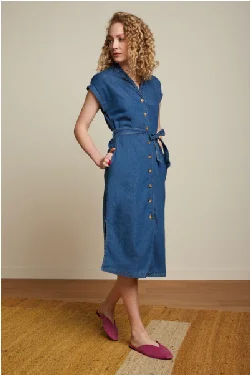
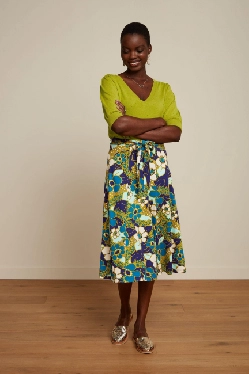
agregue texto en la seccion quienes somos, cambie imaganes en tienda y puse mas error404

diff --git a/pages/quienessomos.html b/pages/quienessomos.html
@@ -21,7 +21,7 @@
         <nav class="navbar navbar-expand-md .bg-success botonera">
             <div class="container-fluid">
                 <a href="../index.html">
-                    <img src="../img/logos/logo-ap.svg" class="logo-size" alt="logo de alma pura">
+                    <img src="../img/logos/logo-ap.svg" class="logo-size" alt="logo de alma pura marron">
                 </a>
                 <button class="navbar-toggler" type="button" data-bs-toggle="collapse"
                     data-bs-target="#navbarSupportedContent" aria-controls="navbarSupportedContent"
@@ -53,7 +53,7 @@
                             <a class="nav-link" href="./contacto.html">Contacto</a>
                         </li>
                         <li class="icon-color">
-                            <a href="#">
+                            <a href="./error404.html">
                                 <img src="../img/icon/icono-ap-carrito.svg" href="#" class="img-icon"
                                     alt="icono de carrito de compra">
                             </a>
@@ -86,26 +86,26 @@
                     </a> 
                 </div>
                 <div class="quien-img">
-                    <img src="../img/backg/backg-ap-quien.webp" alt="imágen provisoria luego se cambiará">
+                    <img src="../img/backg/backg-ap-quien.webp" alt="imágen de mujeres costureras y emprendedoras en el entorno textil">
                 </div>
             </section>
             <section class="quienes2 col-sm-12 col-md-12 col-lg-4">
                 <h2 class="text-center">Nuestro Equipo</h2>
                 <div class="quien-equipo">
                     <figure class="qui1">
-                        <img src="../img/backg/backg-quienes1.webp" alt="imágen provisoria luego se cambiará">
+                        <img src="../img/backg/backg-quienes1.webp" alt="foto perfil de lara mujer joven y sonriente">
                         <figcaption>Lara González</figcaption>
-                        <p>Lorem ipsum dolor sit, amet consectetur adipisicing elit. Perferendis consequatur odit nemo neque. Neque, aliquam voluptatibus. Eveniet distinctio maxime dicta minus sapiente autem. Tempore alias, eligendi doloribus odit dicta accusantium?</p>
+                        <p>Creadora & Fundadora. Fundó Alma Pura en 2011 debido a su preocupación por el impacto de la industria textil en el medio ambiente. Desde su creación, se ha esforzado por difundir el mensaje de que “otro modo de moda es posible”, promoviendo la ética en la moda, ecológica y sostenible.</p>
                     </figure>
                     <figure class="qui2">
-                        <img src="../img/backg/backg-quienes2.webp" alt="imágen provisoria luego se cambiará">
+                        <img src="../img/backg/backg-quienes2.webp" alt="foto perfil de juan  hombre joven y sonriente">
                         <figcaption>Juan Perez</figcaption>
-                        <p>Lorem ipsum dolor sit, amet consectetur adipisicing elit. Perferendis consequatur odit nemo neque. Neque, aliquam voluptatibus. Eveniet distinctio maxime dicta minus sapiente autem. Tempore alias, eligendi doloribus odit dicta accusantium?</p>
+                        <p>Marketing & Administración. Desde su adolescencia se implicó activamente con el cuidado del medio ambiente. A través de su ojo crítico y organizado, Juan representa una persona para llevar a cabo cada producto e idea de Alma Pura, priorizando un entorno ecológico, sostenible y justo.</p>
                     </figure>
                     <figure class="qui3">
-                        <img src="../img/backg/backg-quienes3.webp" alt="imágen provisoria luego se cambiará">
+                        <img src="../img/backg/backg-quienes3.webp" alt="foto perfil de nina  hombre joven y sonriente">
                         <figcaption>Nina Latskhom</figcaption>
-                        <p>Lorem ipsum dolor sit, amet consectetur adipisicing elit. Perferendis consequatur odit nemo neque. Neque, aliquam voluptatibus. Eveniet distinctio maxime dicta minus sapiente autem. Tempore alias, eligendi doloribus odit dicta accusantium?</p>
+                        <p>Diseñadora Textil & Costurera. Siempre amante de la moda, Nina ya no podía tolerar el desperdicio en la industria de la moda. Desde sus diseños y proyectos no sólo crea conciencia sobre los desechos, sino que también implementa cambios para reducir nuestra huella en el planeta.</p>
                     </figure>
                 </div> 
             </section>    
@@ -127,7 +127,7 @@
                 <a href="https://twitter.com/" target="_blank">
                     <img src="../img/icon/icono-ap-twi-light.svg" alt="contactanos por twiter">
                 </a>
-                <a href="#" target="_blank">
+                <a href="./error404.html" target="_blank">
                     <img src="../img/icon/icono-ap-correo-light.svg" alt="contactanos por correo">
                 </a>
             </div>

diff --git a/pages/tienda.html b/pages/tienda.html
@@ -21,7 +21,7 @@
         <nav class="navbar navbar-expand-md .bg-success botonera">
             <div class="container-fluid">
                 <a href="../index.html">
-                    <img src="../img/logos/logo-ap.svg" class="logo-size" alt="logo de alma pura">
+                    <img src="../img/logos/logo-ap.svg" class="logo-size" alt="logo de alma pura marron">
                 </a>
                 <button class="navbar-toggler" type="button" data-bs-toggle="collapse"
                     data-bs-target="#navbarSupportedContent" aria-controls="navbarSupportedContent"
@@ -53,7 +53,7 @@
                             <a class="nav-link" href="./contacto.html">Contacto</a>
                         </li>
                         <li class="icon-color">
-                            <a href="#">
+                            <a href="./error404.html">
                                 <img src="../img/icon/icono-ap-carrito.svg" href="#" class="img-icon"
                                     alt="icono de carrito de compra">
                             </a>
@@ -210,42 +210,42 @@
             </section>
             <div class="products">
                 <section class="produ1">
-                    <img src="../img/produ/produ-ap-tienda1.webp" alt="foto skirt florecer">
+                    <img src="../img/produ/produ-ap-tienda1.webp" alt="foto pollera mujer floreada">
                     <p>Lorem Ipsum - 125€</p>
                     <a href="./error404.html">
                         <input type="button" class="button-tienda" value="Añadir al Carrito">
                     </a>
                 </section>
                 <section class="produ2">
-                    <img src="../img/produ/produ-ap-tienda2.webp" alt="foto vestido esmeralda">
+                    <img src="../img/produ/produ-ap-tienda2.webp" alt="top mujer escote v verde claro">
                     <p>Lorem Ipsum - 98,95€</p>
                     <a href="./error404.html">
                         <input type="button" class="button-tienda" value="Añadir al Carrito">
                     </a>
                 </section>
                 <section class="produ3">
-                    <img src="../img/produ/produ-ap-tienda3.webp" alt="abrigo red">
+                    <img src="../img/produ/produ-ap-tienda3.webp" alt="abrigo mujer largo rojo y blanco">
                     <p>Lorem Ipsum - 58,90€</p>
                     <a href="./error404.html">
                         <input type="button" class="button-tienda" value="Añadir al Carrito">
                     </a>
                 </section>
                 <section class="produ4">
-                    <img src="../img/produ/produ-ap-tienda4.webp" alt="top verde">
+                    <img src="../img/produ/produ-ap-tienda4.webp" alt="pantalon palazzo mujer estampa selva">
                     <p>Lorem Ipsum - 112,95€</p>
                     <a href="./error404.html">
                         <input type="button" class="button-tienda" value="Añadir al Carrito">
                     </a>
                 </section>
                 <section class="produ2">
-                    <img src="../img/produ/produ-ap-tienda2.webp" alt="foto vestido esmeralda">
+                    <img src="../img/produ/produ-ap-tienda5.webp" alt="top fuxia brillo mujer">
                     <p>Lorem Ipsum - 98,95€</p>
                     <a href="./error404.html">
                         <input type="button" class="button-tienda" value="Añadir al Carrito">
                     </a>
                 </section>
                 <section class="produ3">
-                    <img src="../img/produ/produ-ap-tienda3.webp" alt="abrigo red2">
+                    <img src="../img/produ/produ-ap-tienda6.webp" alt="vestido largo mujer estampa aves">
                     <p>Lorem Ipsum - 58,90€</p>
                     <a href="./error404.html">
                         <input type="button" class="button-tienda" value="Añadir al Carrito">
@@ -294,7 +294,7 @@
                 <a href="https://twitter.com/" target="_blank">
                     <img src="../img/icon/icono-ap-twi-light.svg" alt="contactanos por twiter">
                 </a>
-                <a href="#" target="_blank">
+                <a href="./error404.html" target="_blank">
                     <img src="../img/icon/icono-ap-correo-light.svg" alt="contactanos por correo">
                 </a>
             </div>

diff --git a/index.html b/index.html
@@ -23,7 +23,7 @@
         <nav class="navbar navbar-expand-md .bg-success botonera sticky-top">
             <div class="container-fluid">
                 <a href="./index.html">
-                    <img src="./img/logos/logo-ap.svg" class="logo-size" alt="logo de alma pura">
+                    <img src="./img/logos/logo-ap.svg" class="logo-size" alt="logo de alma pura marron">
                 </a>
                 <button class="navbar-toggler" type="button" data-bs-toggle="collapse"
                     data-bs-target="#navbarSupportedContent" aria-controls="navbarSupportedContent"
@@ -117,11 +117,11 @@
         </section>
         <section class="servicios">
             <div class="icono-serv">
-                <img src="./img/icon/icono-ap-servicios1.svg" alt="icono servicios">
-                <img src="./img/icon/icono-ap-servicios2.svg" alt="icono servicios">
-                <img src="./img/icon/icono-ap-servicios3.svg" alt="icono servicios">
-                <img src="./img/icon/icono-ap-servicios4.svg" alt="icono servicios">
-                <img src="./img/icon/icono-ap-servicios5.svg" alt="icono servicios">
+                <img src="./img/icon/icono-ap-servicios1.svg" alt="icono servicios materiales sostenibles">
+                <img src="./img/icon/icono-ap-servicios2.svg" alt="icono servicios slow fashion">
+                <img src="./img/icon/icono-ap-servicios3.svg" alt="icono servicios fibras naturales">
+                <img src="./img/icon/icono-ap-servicios4.svg" alt="icono servicios eco friendly">
+                <img src="./img/icon/icono-ap-servicios5.svg" alt="icono servicios comercio justo">
             </div>
         </section>
         <section class="nosotros">
@@ -172,7 +172,7 @@
                 <a href="https://twitter.com/" target="_blank">
                     <img src="./img/icon/icono-ap-twi-light.svg" alt="contactanos por twiter">
                 </a>
-                <a href="#" target="_blank">
+                <a href="pages/error404.html" target="_blank">
                     <img src="./img/icon/icono-ap-correo-light.svg" alt="contactanos por correo">
                 </a>
             </div>

diff --git a/pages/contacto.html b/pages/contacto.html
@@ -21,7 +21,7 @@
         <nav class="navbar navbar-expand-md .bg-success botonera">
             <div class="container-fluid">
                 <a href="../index.html">
-                    <img src="../img/logos/logo-ap.svg" class="logo-size" alt="logo de alma pura">
+                    <img src="../img/logos/logo-ap.svg" class="logo-size" alt="logo de alma pura marron">
                 </a>
                 <button class="navbar-toggler" type="button" data-bs-toggle="collapse"
                     data-bs-target="#navbarSupportedContent" aria-controls="navbarSupportedContent"
@@ -53,7 +53,7 @@
                             <a class="nav-link active" href="./contacto.html">Contacto</a>
                         </li>
                         <li class="icon-color">
-                            <a href="#">
+                            <a href="./error404.html">
                                 <img src="../img/icon/icono-ap-carrito.svg" href="#" class="img-icon"
                                     alt="icono de carrito de compra">
                             </a>
@@ -101,7 +101,7 @@
                         <a href="https://twitter.com/" target="_blank">
                             <img src="../img/icon/icono-ap-twi.png" alt="contactanos por twiter">
                         </a>
-                        <a href="#" target="_blank">
+                        <a href="./error404.html" target="_blank">
                             <img src="../img/icon/icono-ap-correo.png" alt="contactanos por correo">
                         </a>
                     </div>
@@ -167,7 +167,7 @@
                 <a href="https://twitter.com/" target="_blank">
                     <img src="../img/icon/icono-ap-twi-light.svg" alt="contactanos por twiter">
                 </a>
-                <a href="#" target="_blank">
+                <a href="./error404.html" target="_blank">
                     <img src="../img/icon/icono-ap-correo-light.svg" alt="contactanos por correo">
                 </a>
             </div>

diff --git a/pages/sostenibilidad.html b/pages/sostenibilidad.html
@@ -21,7 +21,7 @@
         <nav class="navbar navbar-expand-md .bg-success botonera">
             <div class="container-fluid">
                 <a href="../index.html">
-                    <img src="../img/logos/logo-ap.svg" class="logo-size" alt="logo de alma pura">
+                    <img src="../img/logos/logo-ap.svg" class="logo-size" alt="logo de alma pura marron">
                 </a>
                 <button class="navbar-toggler" type="button" data-bs-toggle="collapse" data-bs-target="#navbarSupportedContent" aria-controls="navbarSupportedContent"
                     aria-expanded="false" aria-label="Toggle navigation">
@@ -52,7 +52,7 @@
                             <a class="nav-link" href="./contacto.html">Contacto</a>
                         </li>
                         <li class="icon-color">
-                            <a href="#">
+                            <a href="./error404.html">
                                 <img src="../img/icon/icono-ap-carrito.svg" href="#" class="img-icon"
                                     alt="icono de carrito de compra">
                             </a>
@@ -127,7 +127,7 @@
                 <a href="https://twitter.com/" target="_blank">
                     <img src="../img/icon/icono-ap-twi-light.svg" alt="contactanos por twiter">
                 </a>
-                <a href="#" target="_blank">
+                <a href="./error404.html" target="_blank">
                     <img src="../img/icon/icono-ap-correo-light.svg" alt="contactanos por correo">
                 </a>
             </div>
